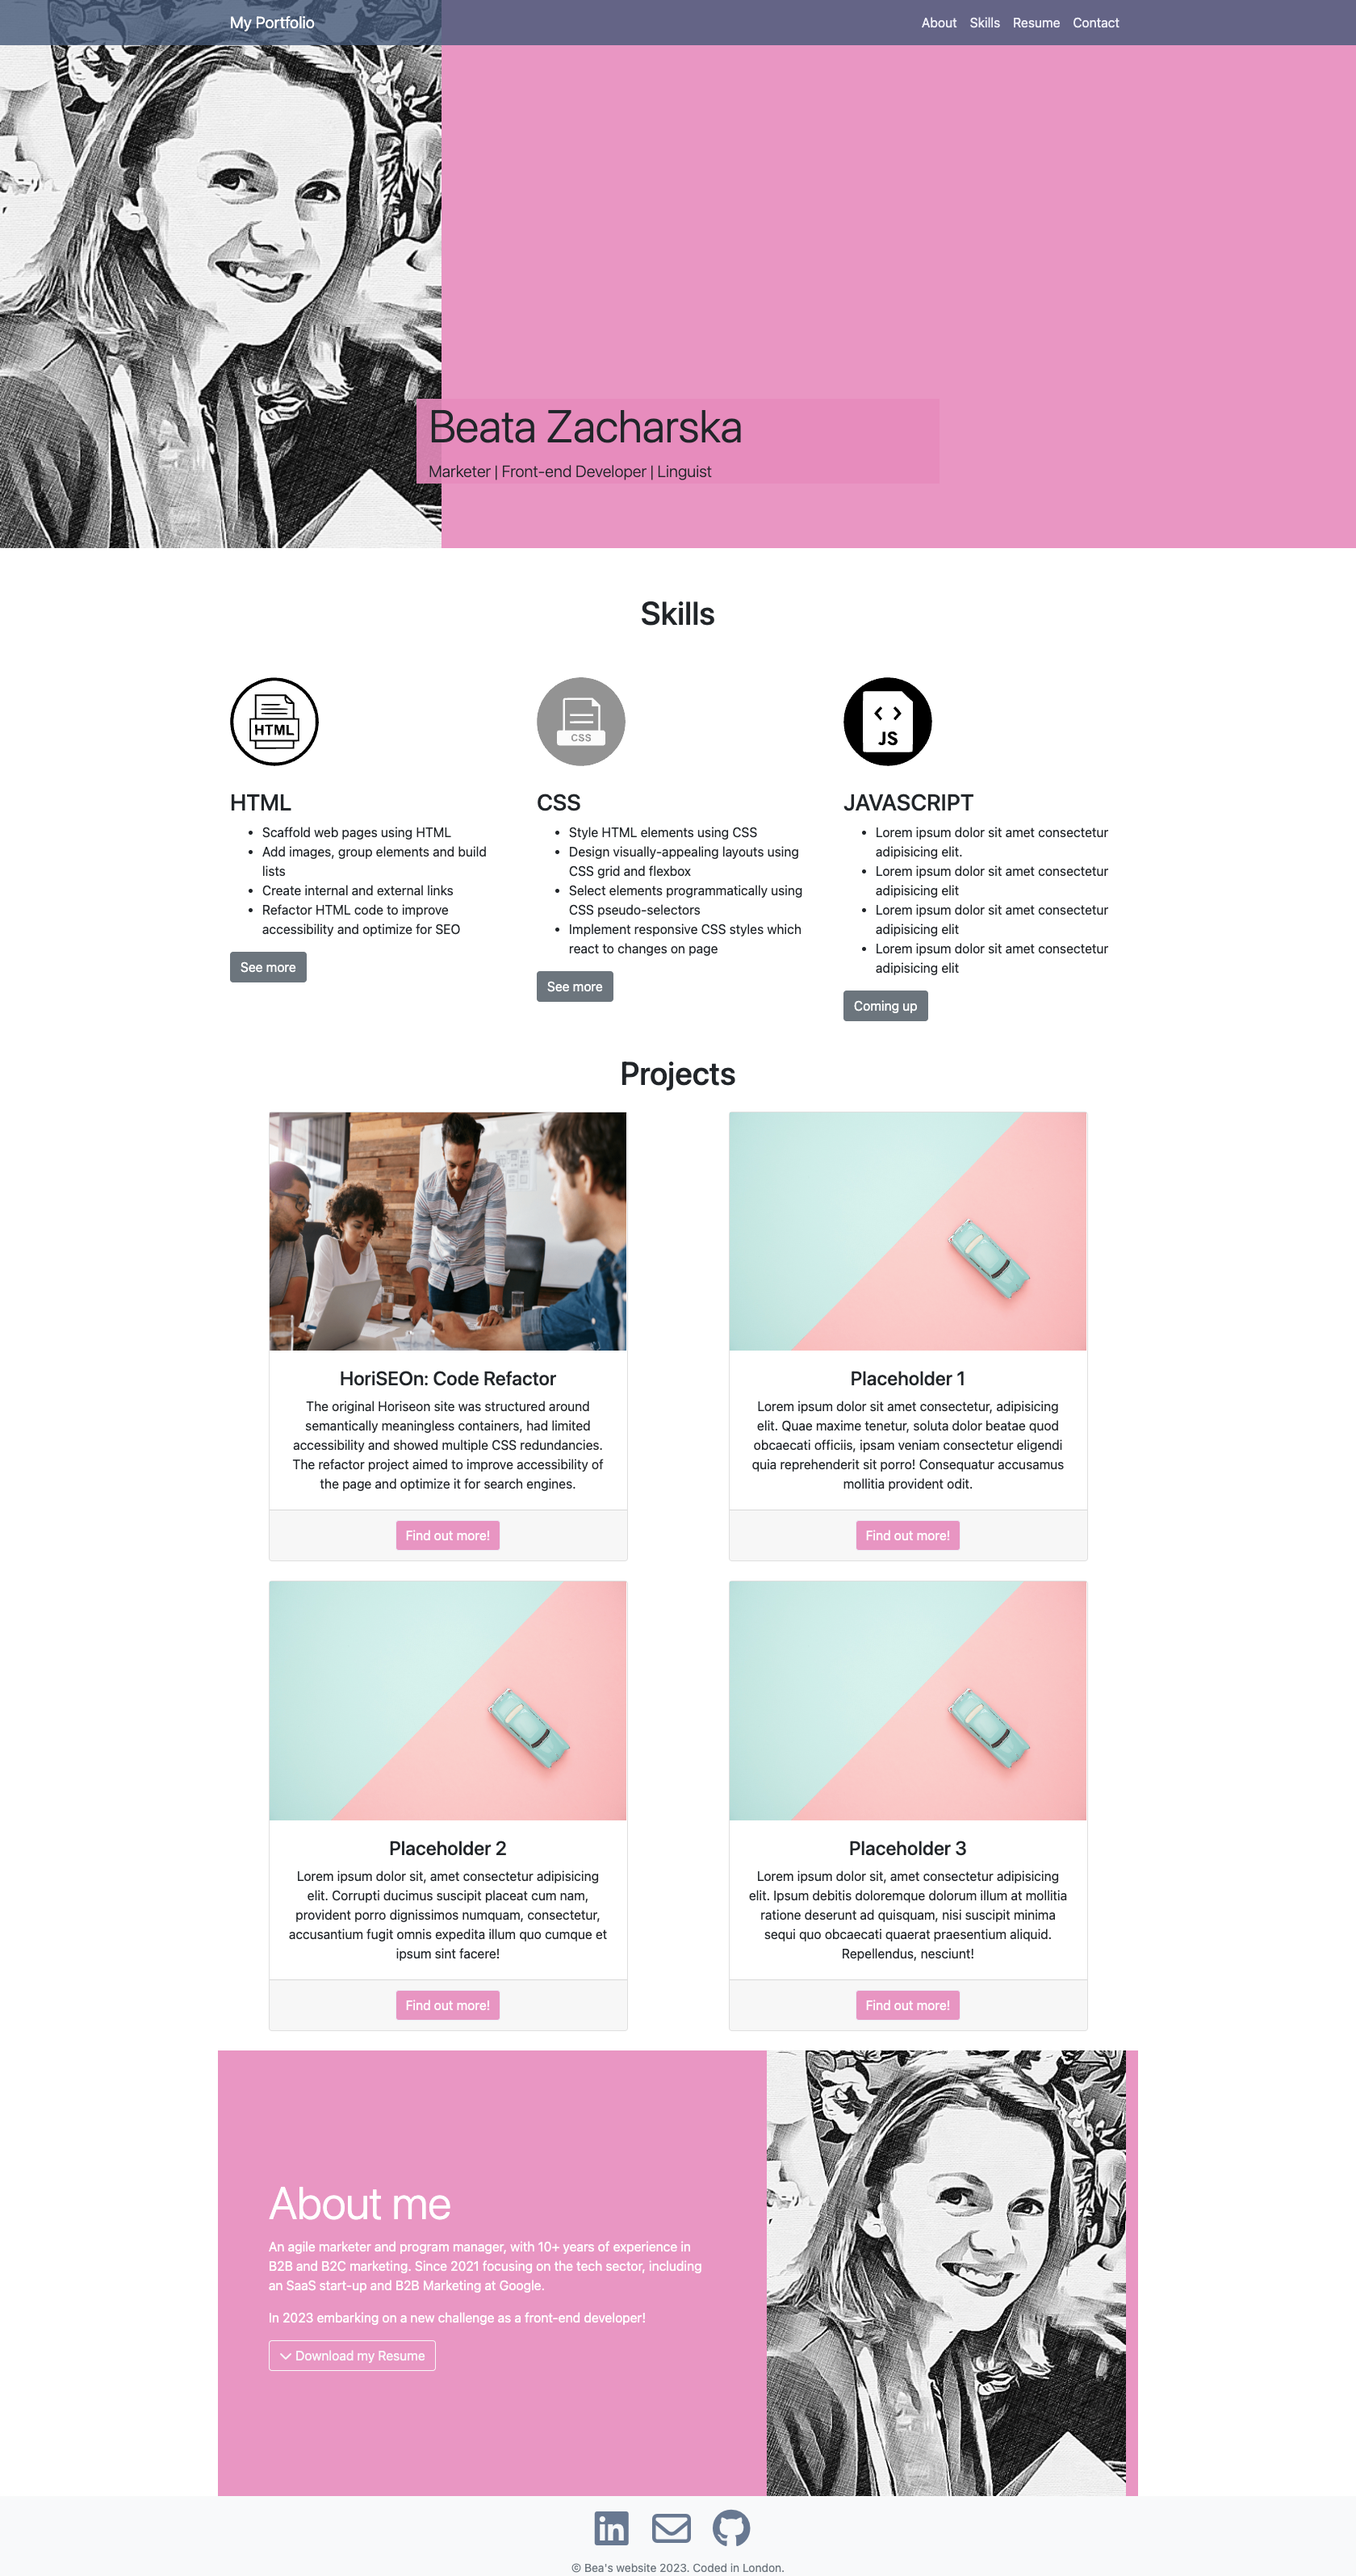
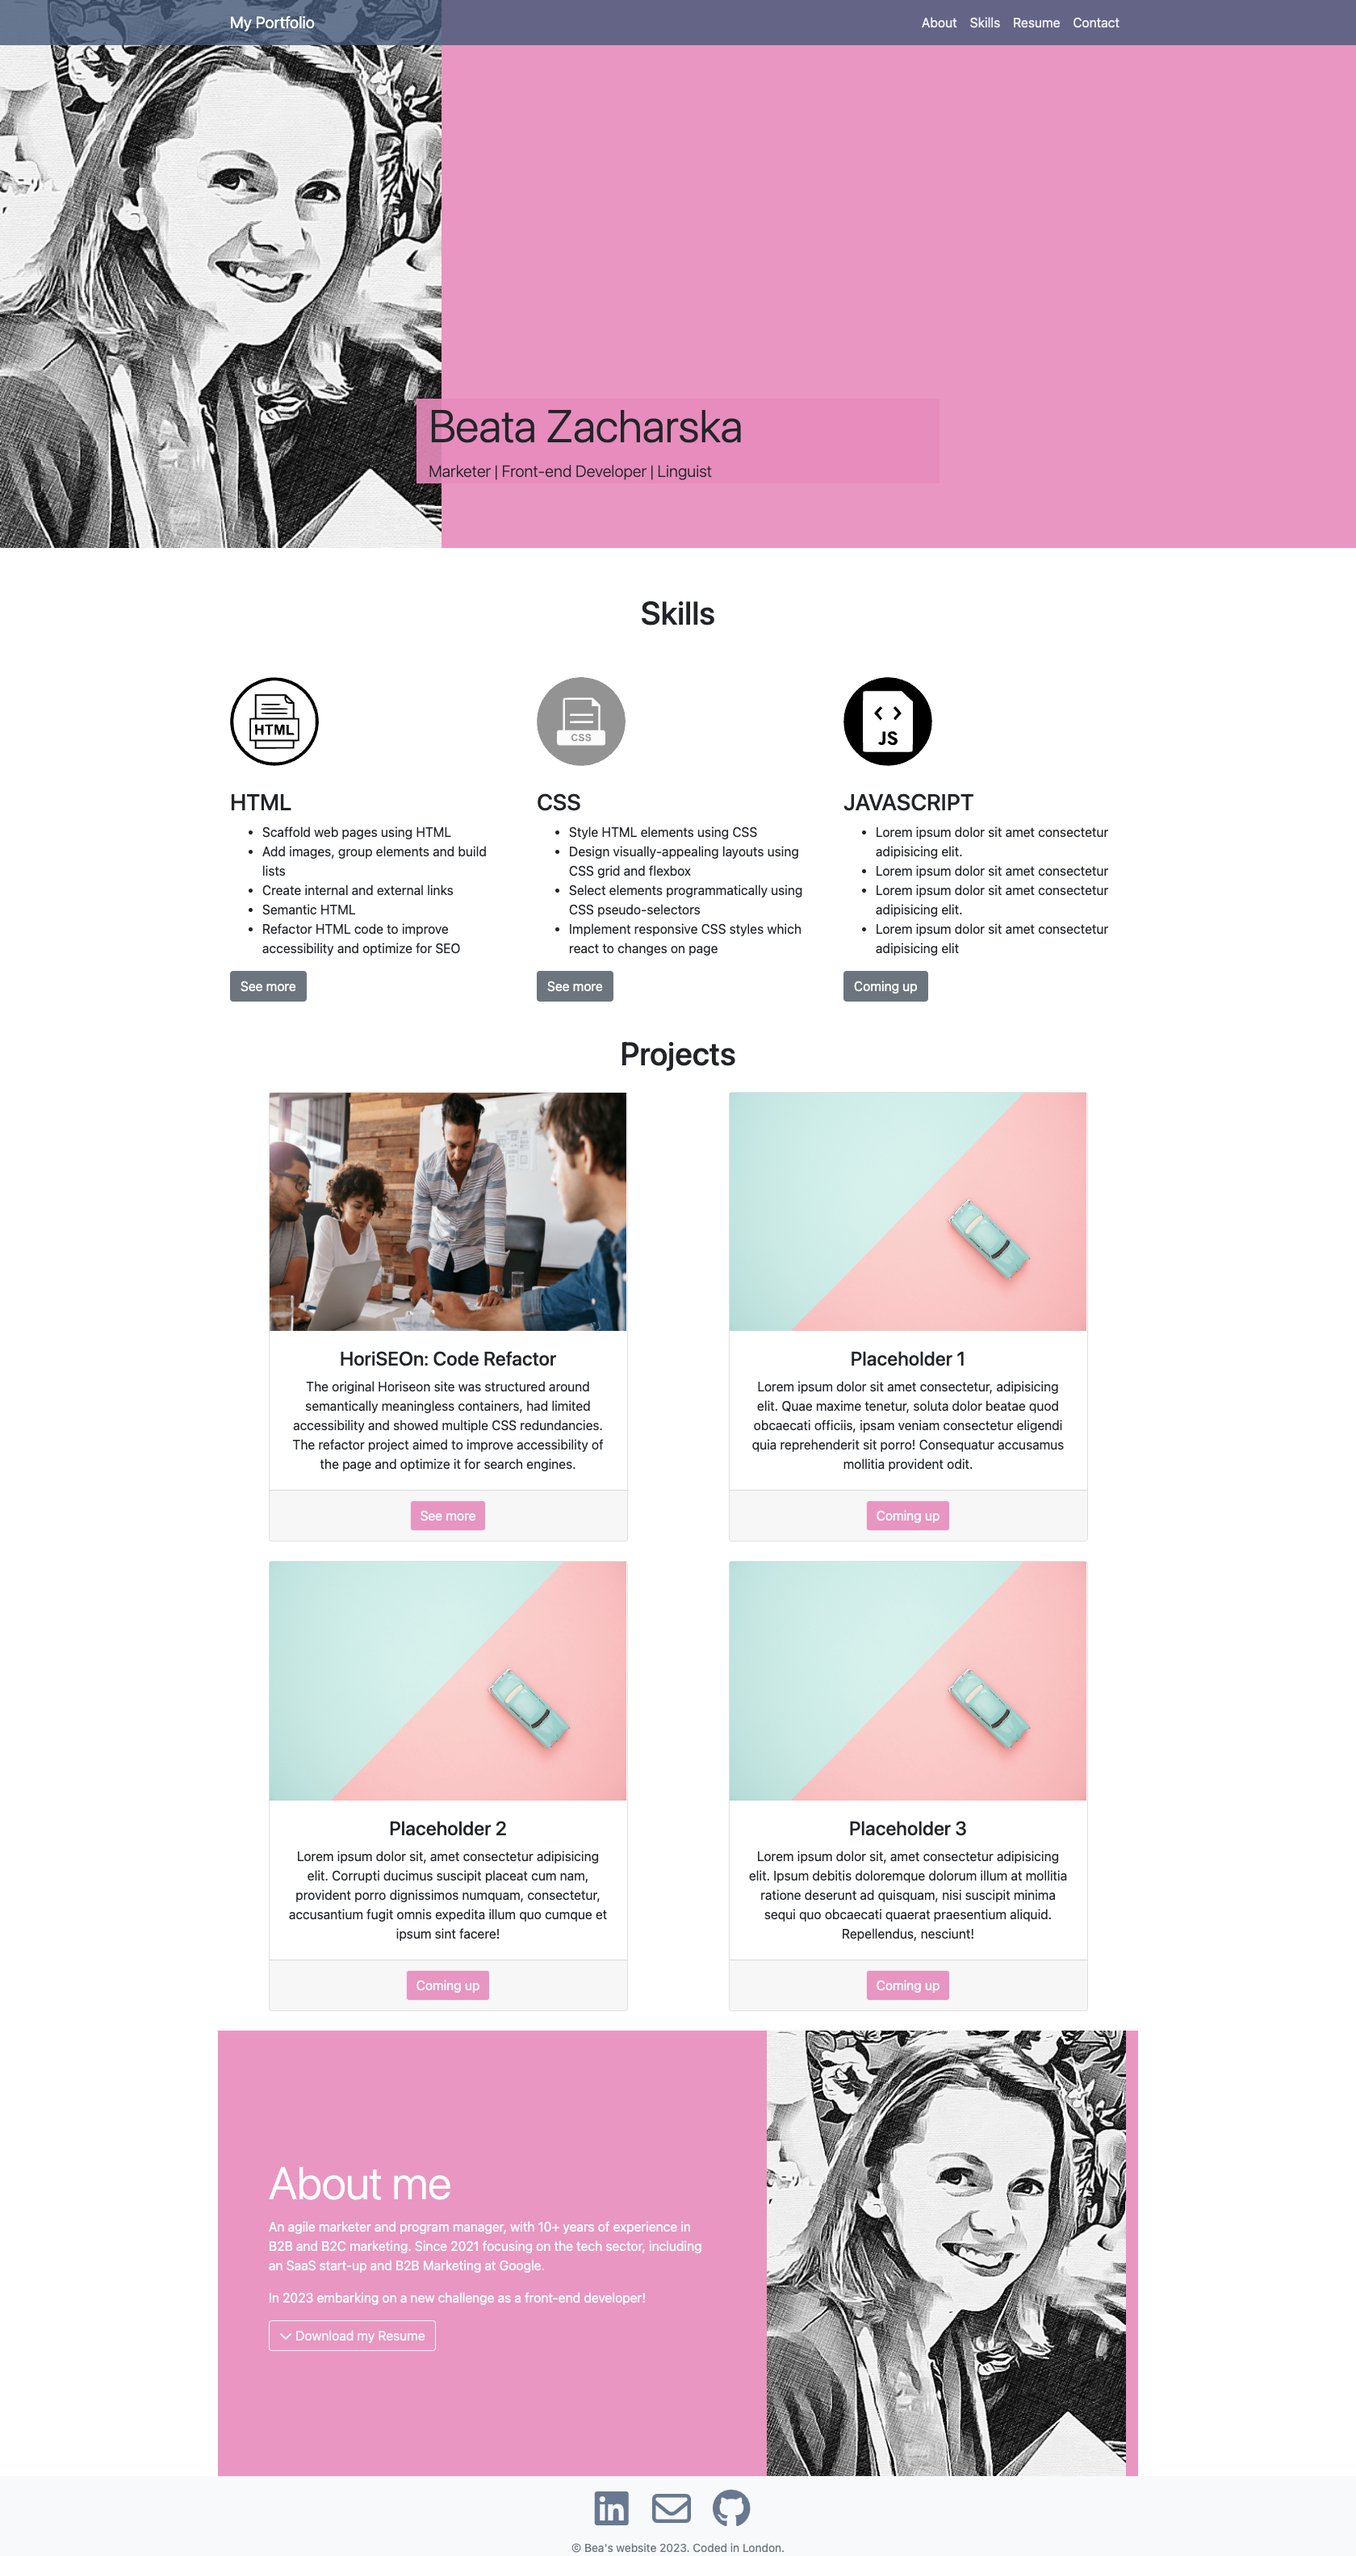
aligned Skills section and updated deployed screenshots

diff --git a/index.html b/index.html
@@ -69,7 +69,7 @@
             <h1 class="my-4">Skills</h1>
             </div>
 
-            <div class="row">
+            <div class="row" id="skills-row">
                 <div class="col-lg-4">
                     <img class="bd-placeholder-img rounded-circle" src="images/html.svg" width="110" height="110" id="skill-icon">
                     <h3 id="skill">HTML</h3>
@@ -77,13 +77,13 @@
                         <li>Scaffold web pages using HTML</li>
                         <li>Add images, group elements and build lists</li>
                         <li>Create internal and external links</li>
+                        <li>Semantic HTML</li>
                         <li>Refactor HTML code to improve accessibility and optimize for SEO</li>
                     </ul>
                     <p><a class="btn btn-secondary" href="https://github.com/beazach/horiseon-code-refactor" role="button">See more</a></p>
                 </div>
                 <div class="col-lg-4">
                     <img class="bd-placeholder-img rounded-circle" src="images/css.svg" width="110" height="110" id="skill-icon">
-                        <rect width="100%" height="100%"></rect>
                     <h3 id="skill">CSS</h3>
                     <ul>
                         <li>Style HTML elements using CSS</li>
@@ -95,13 +95,11 @@
                 </div>
                 <div class="col-lg-4">
                     <img class="bd-placeholder-img rounded-circle" src="images/js-flat.svg" width="110" height="110" id="skill-icon">
-                        <rect width="75%" height="75%" fill="777"></rect>
-                    </svg>
                     <h3 id="skill">JAVASCRIPT</h3>
                     <ul>
                         <li>Lorem ipsum dolor sit amet consectetur adipisicing elit.</li>
-                        <li>Lorem ipsum dolor sit amet consectetur adipisicing elit</li>
-                        <li>Lorem ipsum dolor sit amet consectetur adipisicing elit</li>
+                        <li>Lorem ipsum dolor sit amet consectetur</li>
+                        <li>Lorem ipsum dolor sit amet consectetur adipisicing elit.</li>
                         <li>Lorem ipsum dolor sit amet consectetur adipisicing elit</li>
                     </ul>
                     <p><a class="btn btn-secondary" href="#" role="button">Coming up</a></p>
@@ -124,7 +122,7 @@
                             <p class="card-text">The original Horiseon site was structured around semantically meaningless containers, had limited accessibility and showed multiple CSS redundancies. The refactor project aimed to improve accessibility of the page and optimize it for search engines.</p>
                         </div>
                         <div class="card-footer">
-                            <a href="https://beazach.github.io/horiseon-code-refactor/" class="btn btn-primary" id="work-button">Find out more!</a>
+                            <a href="https://beazach.github.io/horiseon-code-refactor/" class="btn btn-primary" id="work-button">See more</a>
                         </div>
                     </div>
                 </div>
@@ -136,7 +134,7 @@
                             <p class="card-text">Lorem ipsum dolor sit amet consectetur, adipisicing elit. Quae maxime tenetur, soluta dolor beatae quod obcaecati officiis, ipsam veniam consectetur eligendi quia reprehenderit sit porro! Consequatur accusamus mollitia provident odit.</p>
                         </div>
                         <div class="card-footer">
-                            <a href="" class="btn btn-primary" id="work-button">Find out more!</a>
+                            <a href="" class="btn btn-primary" id="work-button">Coming up</a>
                         </div>
                     </div>
                 </div>
@@ -148,7 +146,7 @@
                             <p class="card-text">Lorem ipsum dolor sit, amet consectetur adipisicing elit. Corrupti ducimus suscipit placeat cum nam, provident porro dignissimos numquam, consectetur, accusantium fugit omnis expedita illum quo cumque et ipsum sint facere!</p>
                         </div>
                         <div class="card-footer">
-                            <a href="" class="btn btn-primary" id="work-button">Find out more!</a>
+                            <a href="" class="btn btn-primary" id="work-button">Coming up</a>
                         </div>
                     </div>
                 </div>
@@ -160,7 +158,7 @@
                             <p class="card-text">Lorem ipsum dolor sit, amet consectetur adipisicing elit. Ipsum debitis doloremque dolorum illum at mollitia ratione deserunt ad quisquam, nisi suscipit minima sequi quo obcaecati quaerat praesentium aliquid. Repellendus, nesciunt!</p>
                         </div>
                         <div class="card-footer">
-                            <a href="" class="btn btn-primary" id="work-button">Find out more!</a>
+                            <a href="" class="btn btn-primary" id="work-button">Coming up</a>
                         </div>
                     </div>
                 </div>

diff --git a/css/style.css b/css/style.css
@@ -54,6 +54,11 @@
     margin-top: 2em;
   }
 
+  #skills-row {
+    display: flex;
+    align-items: flex-end;
+  }
+
   /* Projects section ============= */
   #work-image {
   max-width: fit-content;
